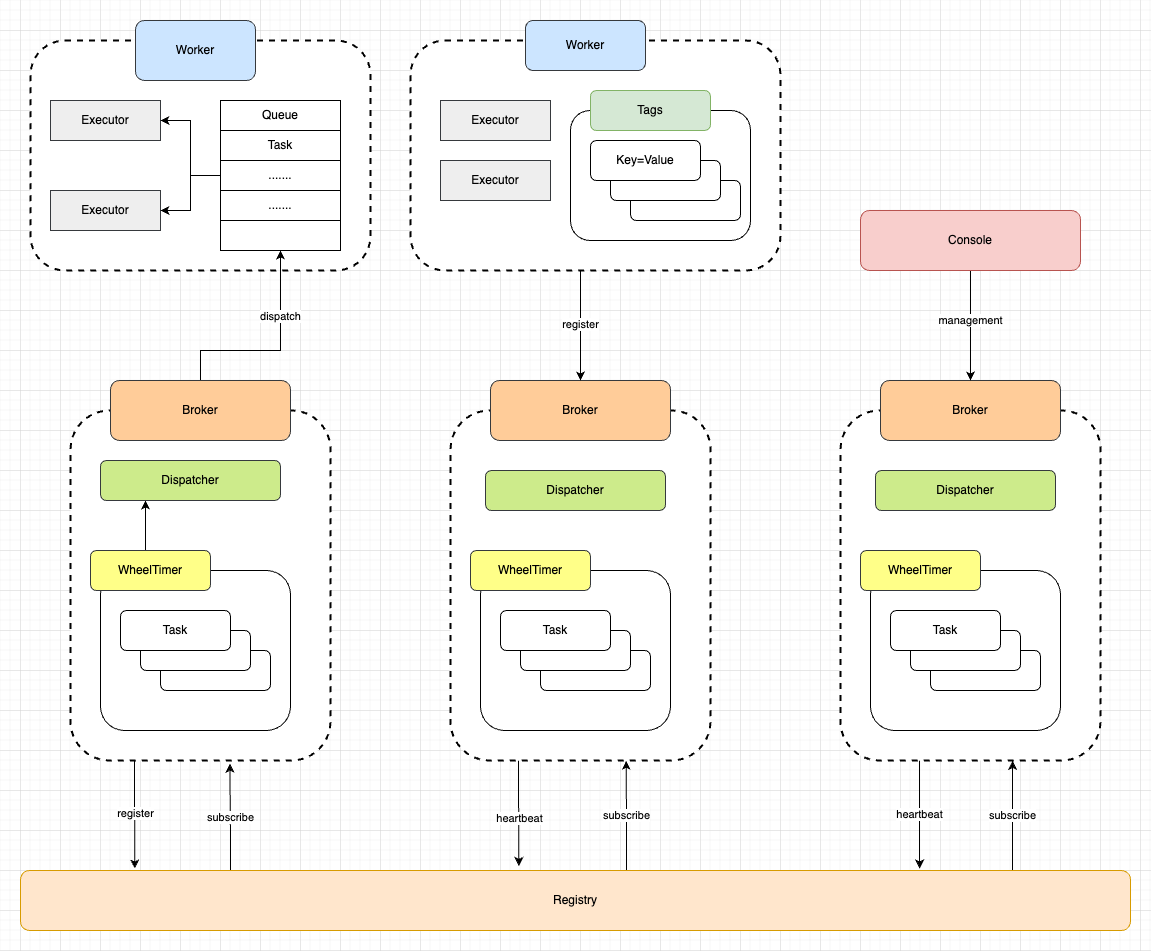
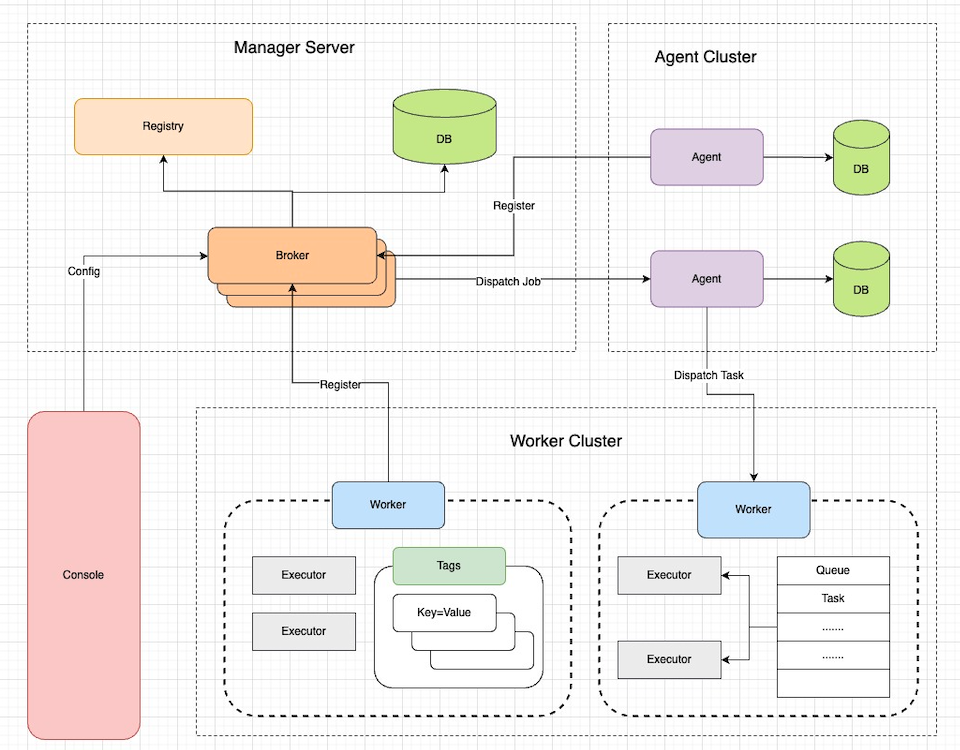
Readme

diff --git a/README.md b/README.md
@@ -2,12 +2,22 @@
 
 **flowjob**主要用于搭建统一的任务调度平台，方便各个业务方进行接入使用。 项目在设计的时候，考虑了扩展性、稳定性、伸缩性等相关问题，可以作为公司的任务调度中间件被使用。
 
+## 在线试用
+
+[在线试用](http://flowjob.tzgo.top)
+
+账号：flowjob
+
+密码：fjdemo
+
 ## 功能介绍
 
 **flowjob**主要分为以下几个部分：
 
-* Broker：中心节点，负责任务的调度。
-* Worker：工作节点，主要负责任务的具体执行。
+* Broker：管控节点，对配置好的任务在集群进行负载，调度任务并下发Agent，同时管理和维护Agent/Worker节点注册等。
+* Agent：代理节点，接收下发的Job信息，生成Task下发给Worker执行，处理Job的生命周期，比如工作流流转等。
+同时此节点可以减少广播/Map/MapReduce等分片任务导致Broker存在的数据/性能压力，以及云原生环境下一些启停导致的数据问题。
+* Worker：工作节点，主要负责Task的具体执行。
 * Console：通过Broker提供的Api，进行任务创建/更新等一些管控操作。
 * Registry：注册中心，目前使用DB做为注册中心。提供了对应接口，可以基于其它组件如zk、nacos等进行灵活的封装。
 * Datasource：数据库用于持久化运行数据
@@ -107,7 +117,7 @@ mvn clean package -Dmaven.test.skip=true -Pdev
 <dependency>
     <groupId>io.github.limbo-world</groupId>
     <artifactId>flowjob-worker-spring-boot-starter</artifactId>
-    <version>1.0.1</version>
+    <version>2.0.0</version>
 </dependency>
 ```
 
@@ -123,10 +133,14 @@ mvn clean package -Dmaven.test.skip=true -Pdev
 | flowjob.worker.heartbeat | Worker 向 Broker 发送心跳请求的间隔，默认 2 秒。                                           |
 | flowjob.worker.tags      | 标签，k=v形式                                                                    |
 
+# 前端应用
+
+结合Api开发了相应的前端页面：[点击跳转](https://github.com/limbo-world/flowjob-console)
+
 # 参与贡献
 
 如果你对本项目有任何建议或想加入我们的，可以通过下面方式：，欢迎提交 issues 进行指正。
 
 - 报告 issue: [github issues](https://github.com/limbo-world/flowjob/issues)
 - 提交PR：[github PR](https://github.com/limbo-world/flowjob/pulls)
-- 加入我们：ysodevilo@gmail.com
+- 加入我们：ysodevilo@163.com
